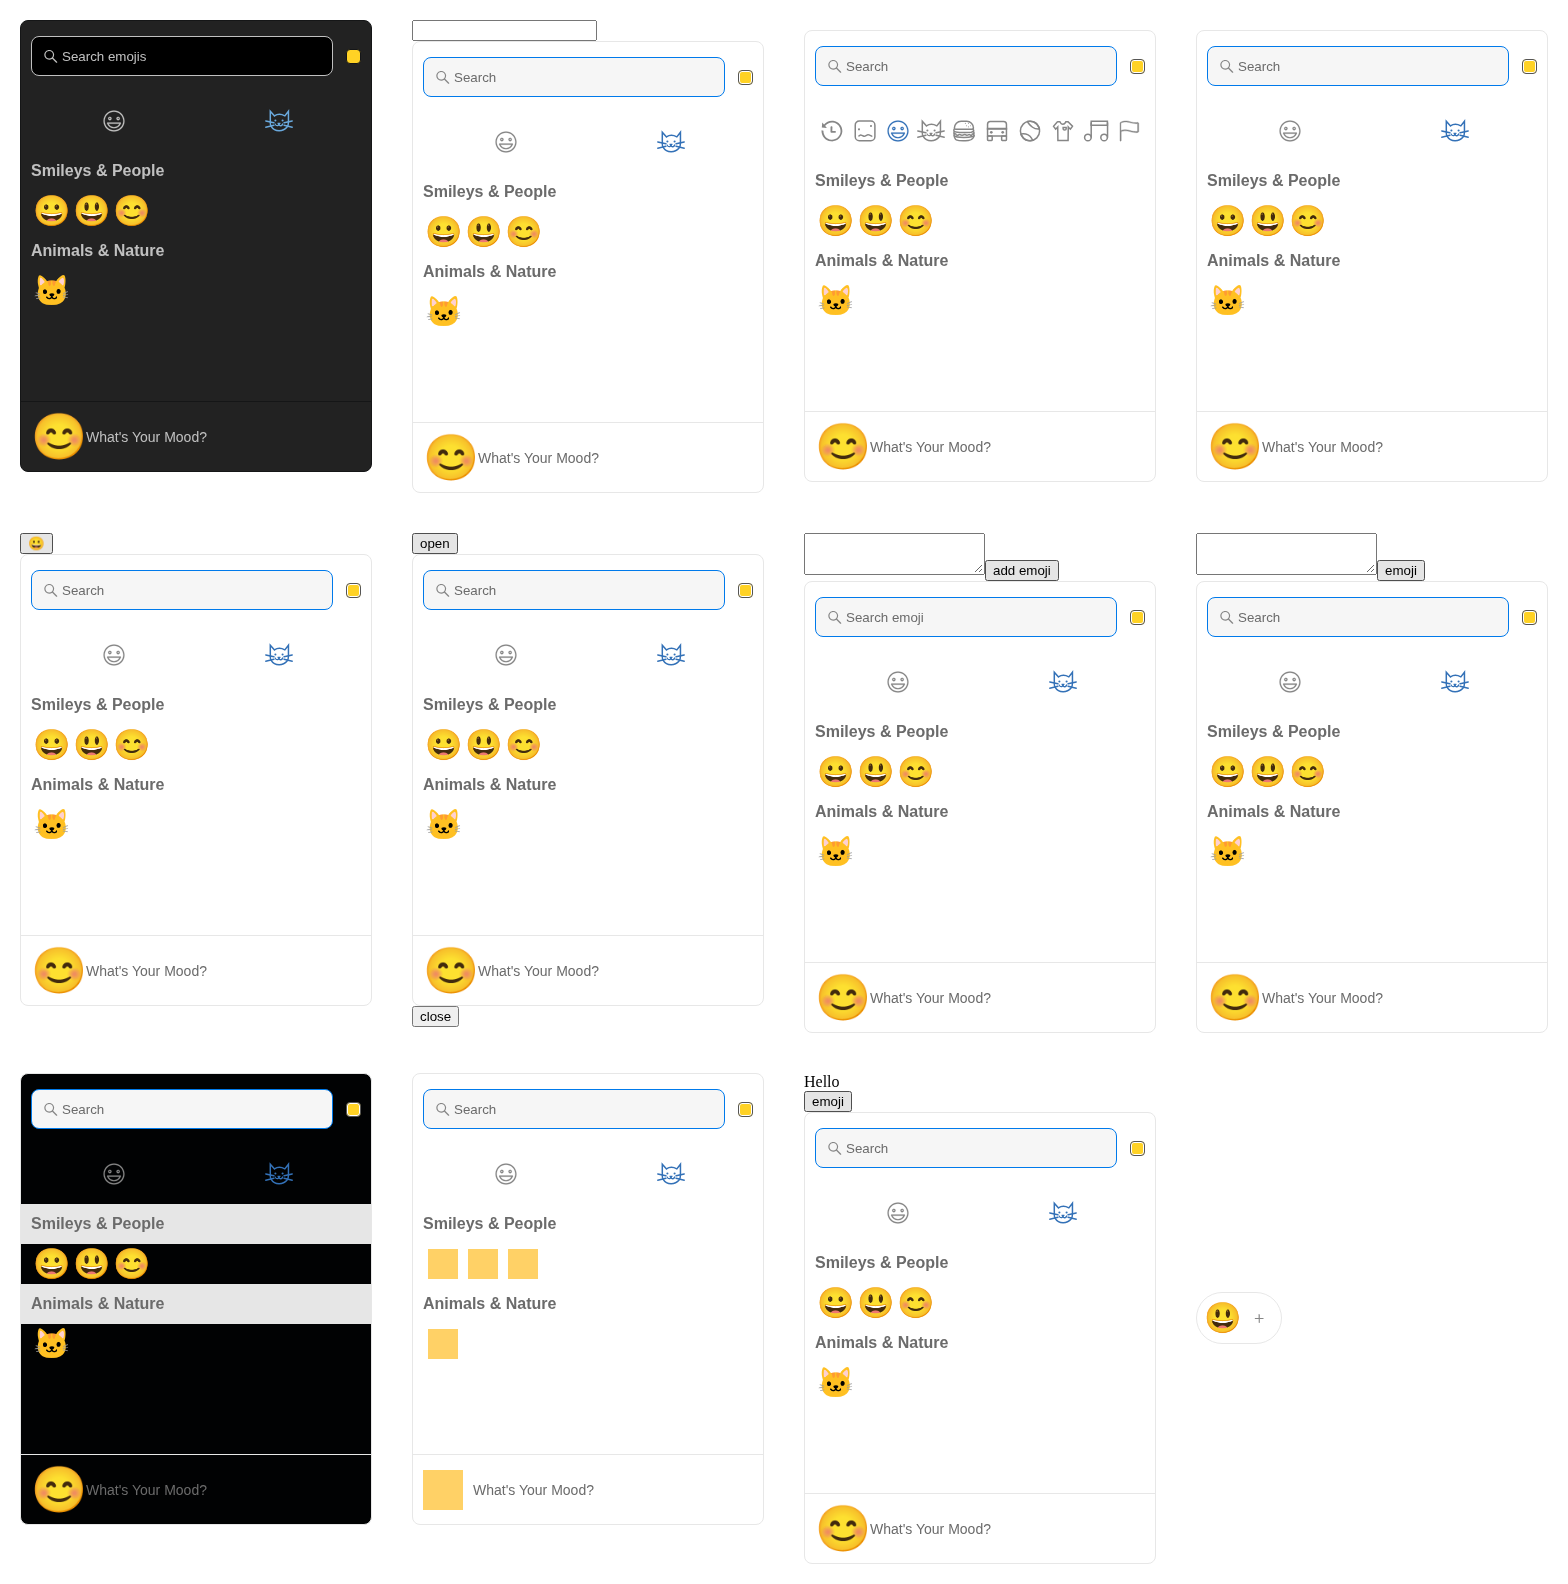
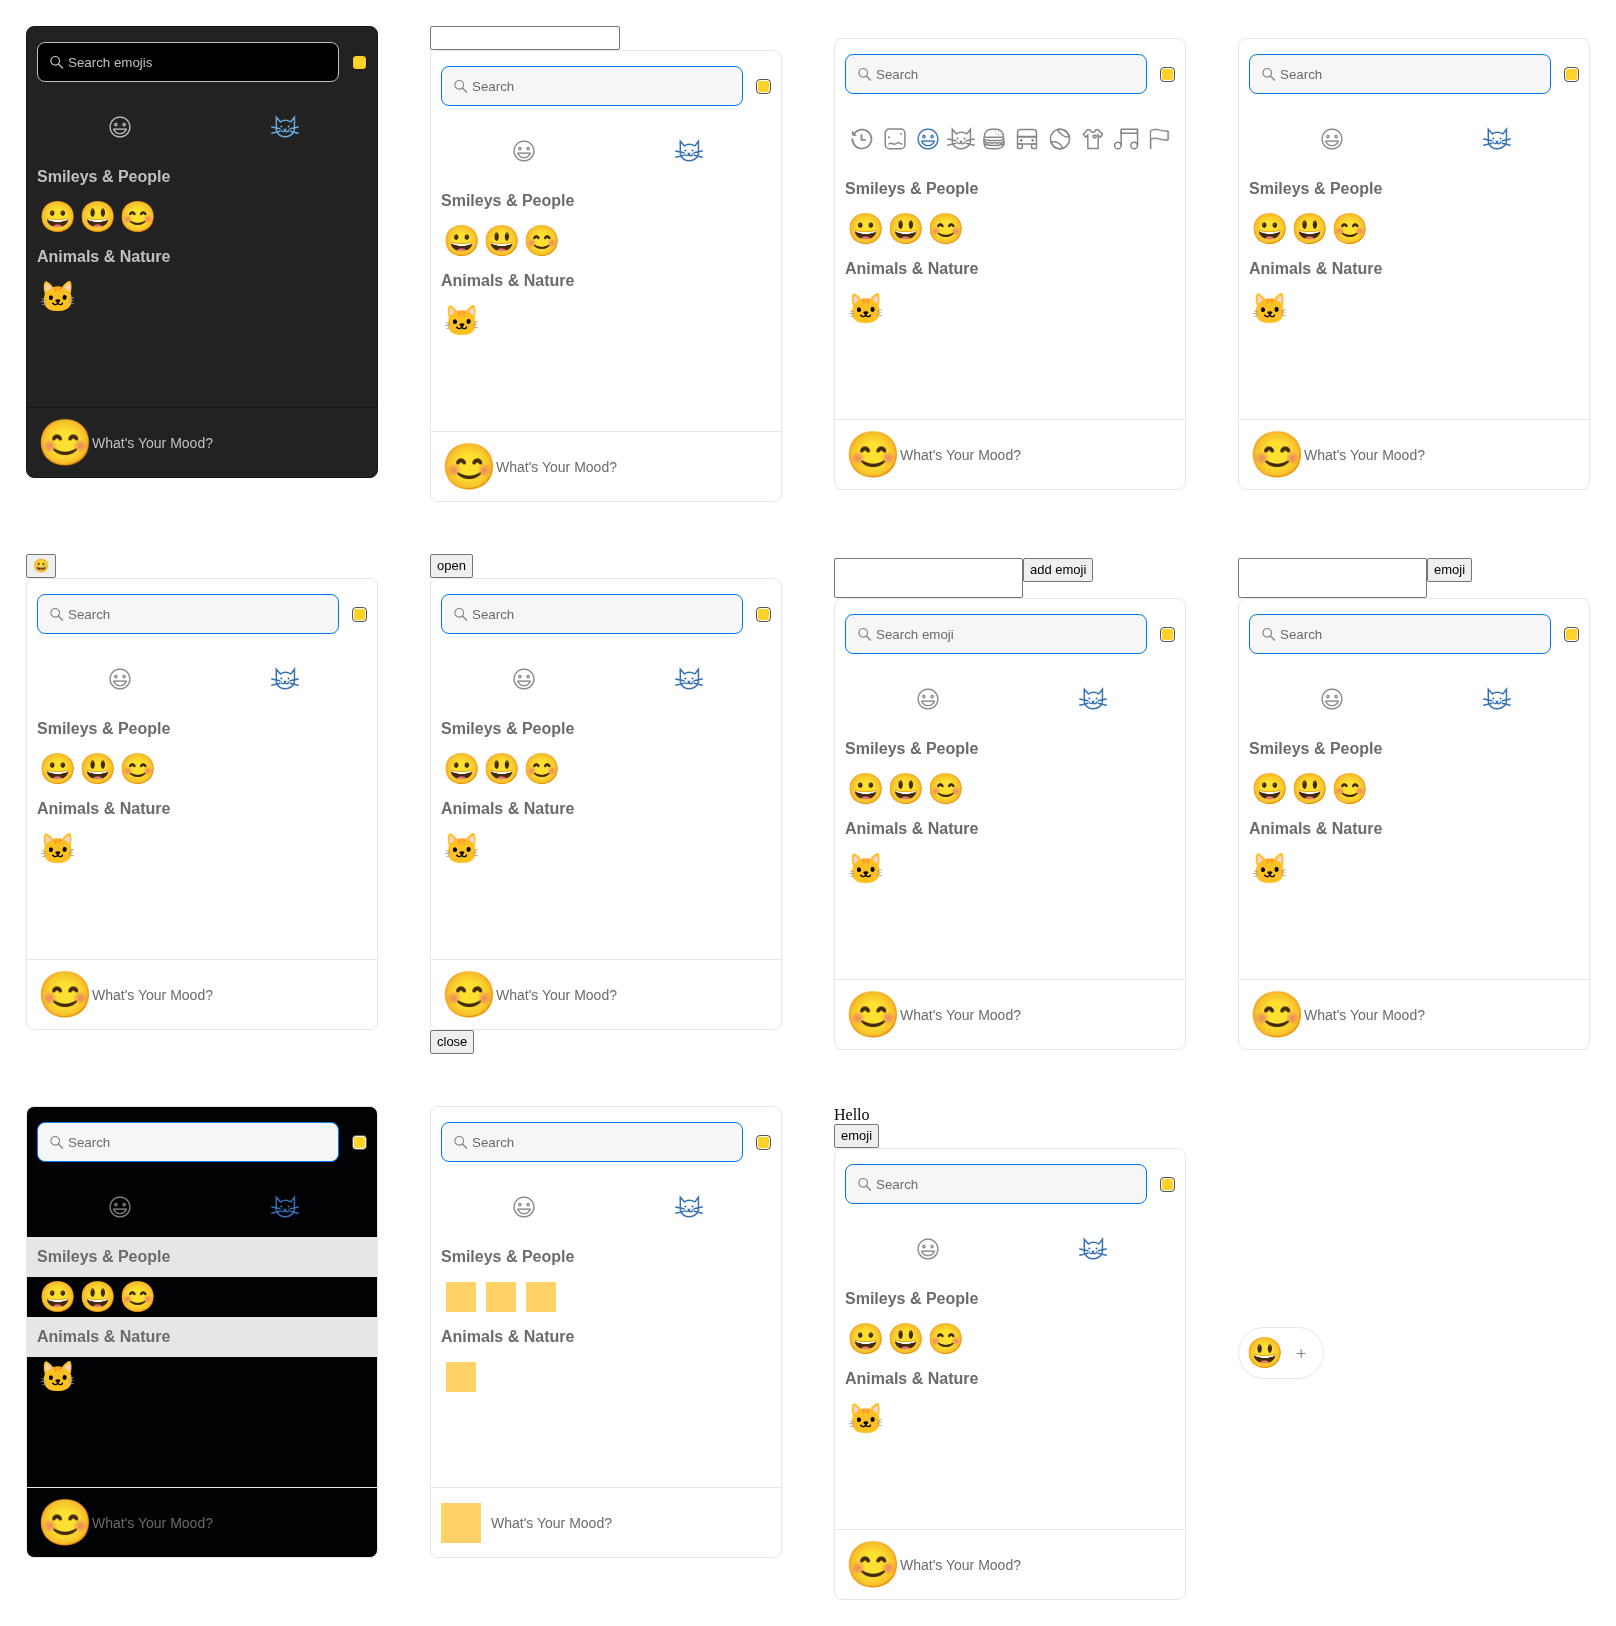
test(visual): portable baselines and a timing-independent IME assertion
CI (Ubuntu) failed baselines captured locally because region screenshots
included host chrome sized by platform defaults: consumer fixtures'
textareas/buttons came out 6px shorter, and the community-forum shell
2px taller (font-dependent "normal" line-height). The picker itself was
pixel-identical. Host controls in the consumer gallery now have pinned
metrics and the forum shell an explicit line-height; affected baselines
regenerated and inspected, contact sheets refreshed.

The rejected-IME acceptance test asserted an absolute filter-commit count
of 0, but the initial "cat" commit can land after the probe mounts on a
slow machine. It now asserts no commit relative to the settled state,
after outlasting the 100 ms filter delay.

tests.yml ran on pushes to "main"; the default branch is master.

diff --git a/playwright/v5-acceptance.spec.ts b/playwright/v5-acceptance.spec.ts
@@ -257,6 +257,11 @@ test.describe('v5 acceptance', () => {
 
     const search = page.getByLabel('Type to search for an emoji');
     await expect(search).toHaveValue('cat');
+    // The initial 'cat' commit may land before or after the probe mounts
+    // (machine speed), so assert no commit relative to the settled state.
+    await expect(page.getByTestId('last-filter-query')).toHaveText('cat');
+    const commitCount = page.getByTestId('filter-commit-count');
+    const settledCommits = await commitCount.textContent();
 
     await search.evaluate((input: HTMLInputElement) => {
       input.dispatchEvent(
@@ -290,7 +295,10 @@ test.describe('v5 acceptance', () => {
 
     await expect(page.getByTestId('last-search-proposal')).toHaveText('にこ');
     await expect(search).toHaveValue('cat');
-    await expect(page.getByTestId('filter-commit-count')).toHaveText('0');
+    // Outlast the 100 ms derived-filter delay before asserting no commit.
+    await page.waitForTimeout(300);
+    await expect(commitCount).toHaveText(settledCommits ?? '');
+    await expect(page.getByTestId('last-filter-query')).toHaveText('cat');
   });
 
   test('accepted controlled type-to-search focuses Search only after acceptance', async ({

diff --git a/stories/consumers/ConsumerFixtures.stories.tsx b/stories/consumers/ConsumerFixtures.stories.tsx
@@ -37,6 +37,29 @@ const meta = {
 
 export default meta;
 
+// Host controls (textareas, inputs, buttons outside the picker) take
+// platform default fonts and metrics, so their box size differs between
+// local machines and Linux CI and the region screenshot changes size.
+// Pin their metrics so baselines are portable; the picker is untouched.
+const HOST_CONTROL_RESET = `
+[data-consumer-shot] :is(textarea, input, button):not(aside *) {
+  box-sizing: border-box;
+  font: 13px/16px Arial, Helvetica, sans-serif;
+  margin: 0;
+  padding: 3px 6px;
+  border: 1px solid #767676;
+  border-radius: 2px;
+  vertical-align: top;
+}
+[data-consumer-shot] :is(input, button):not(aside *) {
+  height: 24px;
+}
+[data-consumer-shot] textarea:not(aside *) {
+  height: 40px;
+  resize: none;
+}
+`;
+
 function Shot({
   shotKey,
   children,
@@ -46,9 +69,11 @@ function Shot({
 }) {
   return (
     <div
+      data-consumer-shot=""
       data-testid={`consumer-shot-${shotKey}`}
       style={{ display: 'inline-block', padding: 16 }}
     >
+      <style>{HOST_CONTROL_RESET}</style>
       {children}
     </div>
   );

diff --git a/stories/recipes/community-forum/app.css b/stories/recipes/community-forum/app.css
@@ -1,5 +1,6 @@
 /* The host app around the picker (shared by every stack variant). */
 .forum-thread {
+  line-height: 1.4;
   width: 540px;
   padding: 20px;
   border-radius: 14px;
